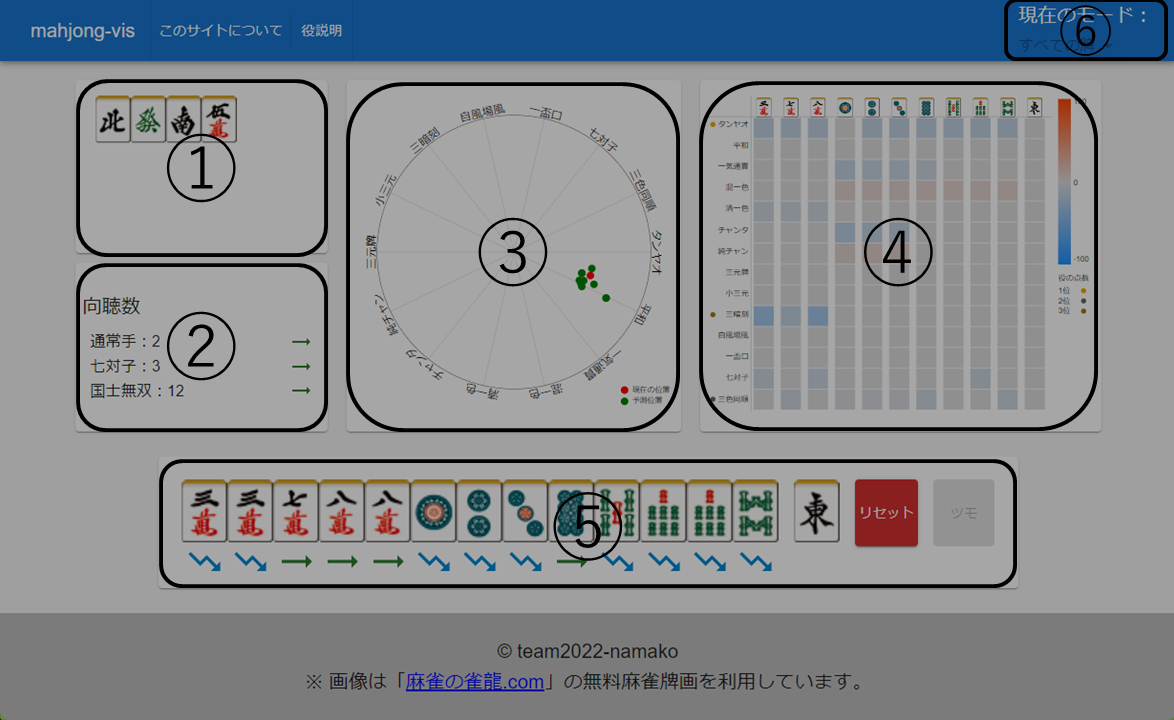
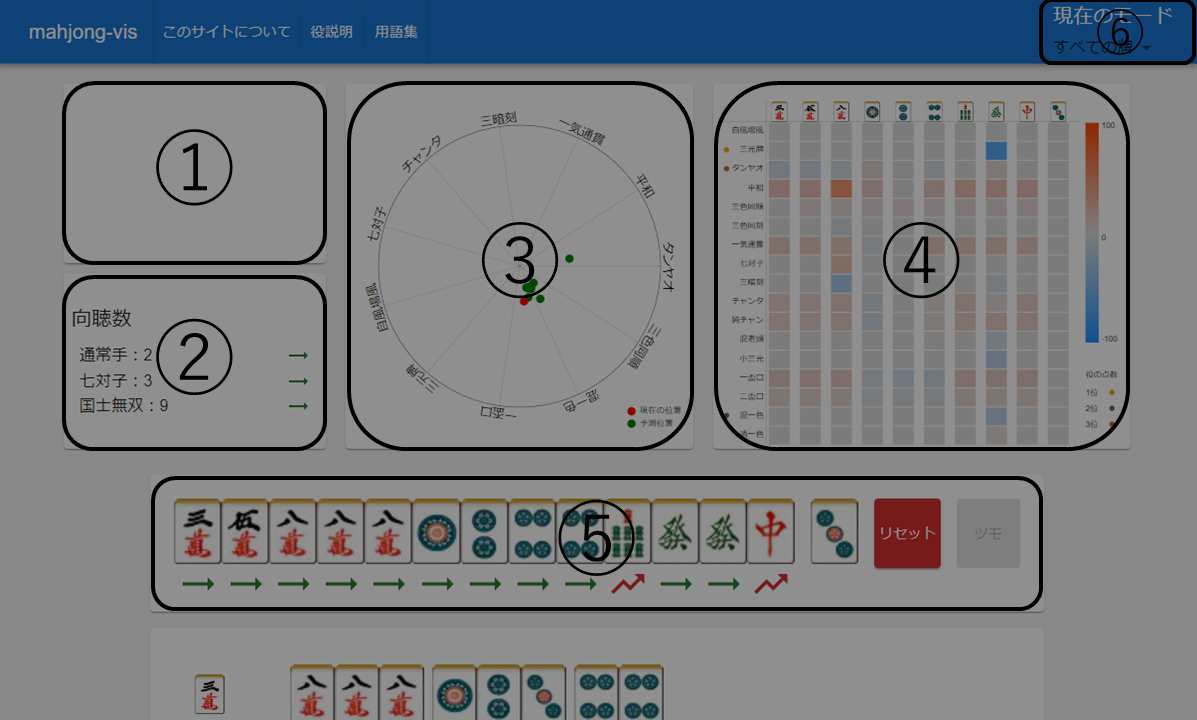
add image

Changed region(s): [[0.0, 0.0, 1.0, 0.8556], [0.2453, 0.8861, 0.7359, 1.0], [0.1533, 0.9167, 0.184, 1.0]]

diff --git a/src/components/WebInfoDialog.jsx b/src/components/WebInfoDialog.jsx
@@ -1,6 +1,7 @@
 import { Fragment, memo } from "react";
 import Image from "next/image";
 import Images from "../../public/images/webImage/webImage.png";
+import Images2 from "../../public/images/webImage/webImage2.png";
 import {
   Box,
   Dialog,
@@ -69,22 +70,24 @@ const Contents = () => {
       "ツモ（アガれる場合のみ）→揃った役を確認後、手牌をリセットします。",
     ],
     [
-      "6.分解ビュー",
-      "左に表示されている牌を切ったときの、最小向聴数における分解の組み合わせを表示しています。",
-      "組み合わせが複数ある場合もあり、全て向聴数は同一です",
-    ],
-    [
-      "7.ツモモード",
+      "6.ツモモード",
       "出現させる牌の種類を選択することができます。",
       "・すべての牌:全種類の牌が出現",
       "・混一色:萬子と字牌のみの牌が出現",
       "・清一色:萬子のみの牌が出現",
       "・タンヤオ:19牌と字牌以外の牌が出現",
     ],
+    [
+      "7.分解ビュー",
+      "左に表示されている牌を切ったときの、最小向聴数における分解の組み合わせを表示しています。",
+      "組み合わせが複数ある場合もあり、全て向聴数は同一です",
+    ],
   ];
 
   return (
     <Box>
+      <Image src={Images} alt="Image" />
+      <Image src={Images2} alt="Image" />
       {text.map((tmp) => {
         const title = tmp[0];
         const buf = tmp.slice(1);
@@ -106,7 +109,6 @@ const Contents = () => {
           </Box>
         );
       })}
-      <Image src={Images} alt="Image" />
     </Box>
   );
 };
